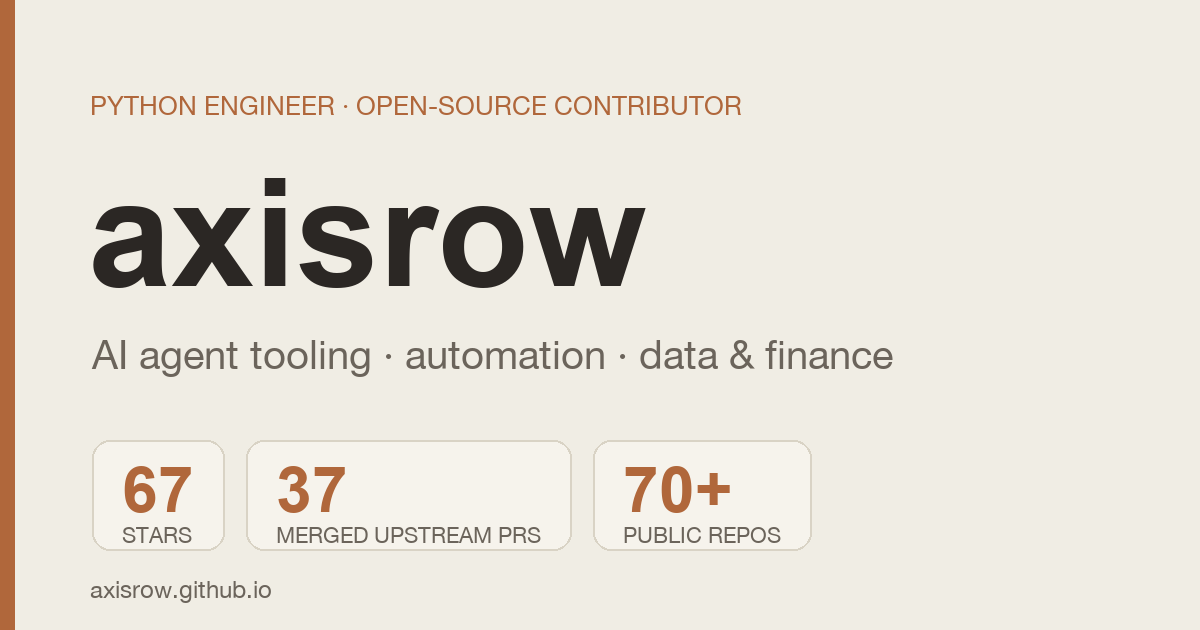
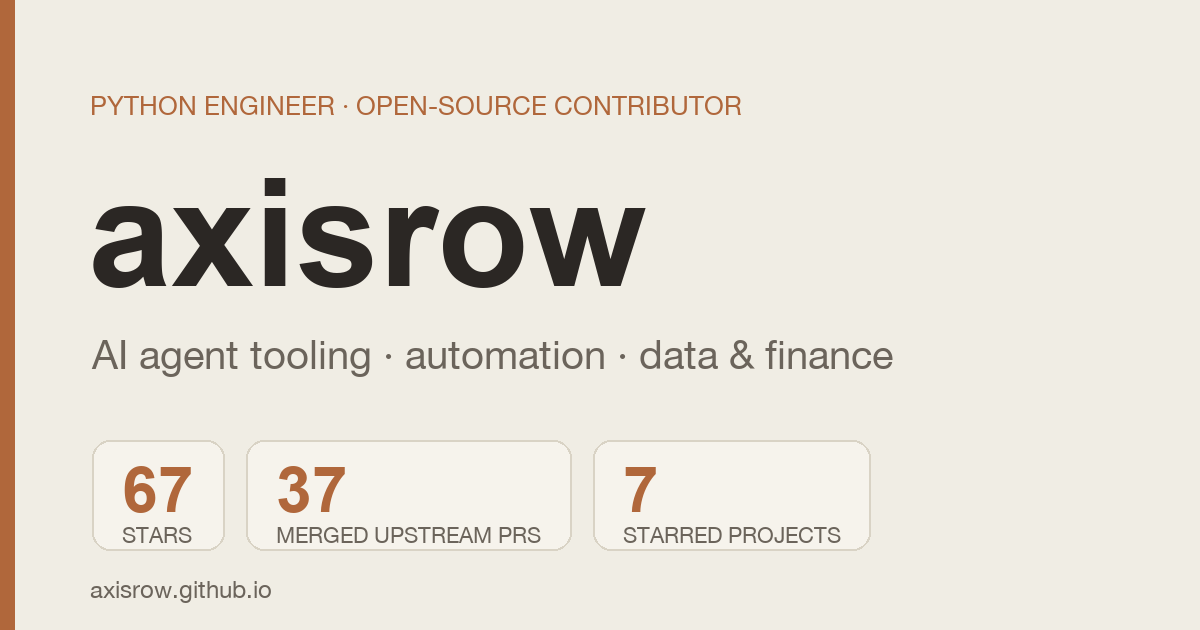
Show only 7 starred original projects; replace 70+ repos counter
- Projects section: 7 own repos with stars>1 (drop zero-star + forks)
- Hero counter: '70+ public repos' -> '7 starred projects'
- Update Experience bullet + OG description/image accordingly

Changed region(s): [[0.5242, 0.7238, 0.7092, 0.8746], [0.6783, 0.6937, 0.7092, 0.7238]]

diff --git a/index.html b/index.html
@@ -9,7 +9,7 @@
 
   <!-- Open Graph / social preview -->
   <meta property="og:title" content="axisrow — Python engineer" />
-  <meta property="og:description" content="AI agent tooling, automation, data/finance systems. 37 merged upstream PRs · 67 stars · 70+ public repos." />
+  <meta property="og:description" content="AI agent tooling, automation, data/finance systems. 37 merged upstream PRs · 67 stars · 7 starred projects." />
   <meta property="og:url" content="https://axisrow.github.io/" />
   <meta property="og:type" content="website" />
   <meta property="og:image" content="https://axisrow.github.io/og.png" />
@@ -66,7 +66,7 @@
         <div class="stat-sep" aria-hidden="true"></div>
         <div class="stat"><span class="stat-num" data-target="37">0</span><span class="stat-label">Merged upstream PRs</span></div>
         <div class="stat-sep" aria-hidden="true"></div>
-        <div class="stat"><span class="stat-num" data-target="70" data-suffix="+">0</span><span class="stat-label">Public repos</span></div>
+        <div class="stat"><span class="stat-num" data-target="7">0</span><span class="stat-label">Starred projects</span></div>
       </div>
       <div class="scroll-hint">scroll ↓</div>
     </section>
@@ -118,7 +118,7 @@
             <p class="timeline-org">Telegram automation · AI agent tooling · data &amp; finance</p>
             <ul class="timeline-bullets">
               <li>Author of <a href="https://github.com/axisrow/tg_content_factory" target="_blank" rel="noopener">tg_content_factory</a> (31★) and the <a href="https://github.com/axisrow/yandex-direct-mcp-plugin" target="_blank" rel="noopener">Yandex.Direct MCP plugin</a> (6★).</li>
-              <li>70+ public repositories across agent tooling, bots, and ML utilities.</li>
+              <li>Author of 7 starred open-source projects across agent tooling, bots, and ML.</li>
               <li>67 stars earned across open-source work.</li>
             </ul>
           </div>
@@ -172,13 +172,26 @@
     <section id="projects" class="section">
       <p class="eyebrow">Selected Work</p>
       <h2 class="section-title">Projects</h2>
+      <p class="section-note">Original repositories with the most stars — see all at <a href="https://github.com/axisrow?tab=repositories" target="_blank" rel="noopener">github.com/axisrow</a>.</p>
 
-      <h3 class="group-title">AI / Agent Tooling</h3>
+      <h3 class="group-title">Telegram &amp; Yandex</h3>
       <div class="cards">
+        <a class="card reveal" href="https://github.com/axisrow/tg_content_factory" target="_blank" rel="noopener">
+          <div class="card-head"><span class="card-name">tg_content_factory</span><span class="card-star">★ 31</span></div>
+          <p class="card-desc">Content-factory pipeline for Telegram — flagship project.</p>
+        </a>
         <a class="card reveal" href="https://github.com/axisrow/yandex-direct-mcp-plugin" target="_blank" rel="noopener">
           <div class="card-head"><span class="card-name">yandex-direct-mcp-plugin</span><span class="card-star">★ 6</span></div>
           <p class="card-desc">Claude Code plugin for Yandex.Direct — MCP server + skills + OAuth.</p>
         </a>
+        <a class="card reveal" href="https://github.com/axisrow/direct-cli" target="_blank" rel="noopener">
+          <div class="card-head"><span class="card-name">direct-cli</span><span class="card-star">★ 4</span></div>
+          <p class="card-desc">CLI for Yandex.Direct.</p>
+        </a>
+      </div>
+
+      <h3 class="group-title">AI / Agent Tooling</h3>
+      <div class="cards">
         <a class="card reveal" href="https://github.com/axisrow/clihost" target="_blank" rel="noopener">
           <div class="card-head"><span class="card-name">clihost</span><span class="card-star">★ 5</span></div>
           <p class="card-desc">Self-hosting / proxy CLI, security-hardened.</p>
@@ -187,49 +200,17 @@
           <div class="card-head"><span class="card-name">claude-code-cycle-review-skill</span><span class="card-star">★ 5</span></div>
           <p class="card-desc">Automated PR review cycle for Claude Code.</p>
         </a>
-        <a class="card reveal" href="https://github.com/axisrow/gemini-webapi-mcp" target="_blank" rel="noopener">
-          <div class="card-head"><span class="card-name">gemini-webapi-mcp</span><span class="card-star">★ 2</span></div>
-          <p class="card-desc">MCP server for Gemini — image gen/edit/chat, no API keys.</p>
+        <a class="card reveal" href="https://github.com/axisrow/claude_code_gmail_plugin" target="_blank" rel="noopener">
+          <div class="card-head"><span class="card-name">claude_code_gmail_plugin</span><span class="card-star">★ 3</span></div>
+          <p class="card-desc">Gmail plugin for Claude Code.</p>
         </a>
       </div>
 
-      <h3 class="group-title">Telegram Bots &amp; Systems</h3>
-      <div class="cards">
-        <a class="card reveal" href="https://github.com/axisrow/tg_content_factory" target="_blank" rel="noopener">
-          <div class="card-head"><span class="card-name">tg_content_factory</span><span class="card-star">★ 31</span></div>
-          <p class="card-desc">Content-factory pipeline for Telegram — flagship project.</p>
-        </a>
-        <a class="card reveal" href="https://github.com/axisrow/tg_messenger" target="_blank" rel="noopener">
-          <div class="card-head"><span class="card-name">tg_messenger</span></div>
-          <p class="card-desc">UI-agnostic core with CLI / TUI / Web front-ends.</p>
-        </a>
-        <a class="card reveal" href="https://github.com/axisrow/deepresearch_bot" target="_blank" rel="noopener">
-          <div class="card-head"><span class="card-name">deepresearch_bot</span></div>
-          <p class="card-desc">Deep-research bot (aiogram3 + LangChain).</p>
-        </a>
-      </div>
-
-      <h3 class="group-title">Data / Finance / ML</h3>
+      <h3 class="group-title">Data / ML</h3>
       <div class="cards">
         <a class="card reveal" href="https://github.com/axisrow/llm_benchmark" target="_blank" rel="noopener">
           <div class="card-head"><span class="card-name">llm_benchmark</span><span class="card-star">★ 3</span></div>
           <p class="card-desc">LLM benchmark harness.</p>
-        </a>
-        <a class="card reveal" href="https://github.com/axisrow/stocks_momento_bot" target="_blank" rel="noopener">
-          <div class="card-head"><span class="card-name">stocks_momento_bot</span></div>
-          <p class="card-desc">Trading bot with financial-data integrity invariants.</p>
-        </a>
-      </div>
-
-      <h3 class="group-title">Yandex Ecosystem</h3>
-      <div class="cards">
-        <a class="card reveal" href="https://github.com/axisrow/direct-cli" target="_blank" rel="noopener">
-          <div class="card-head"><span class="card-name">direct-cli</span><span class="card-star">★ 4</span></div>
-          <p class="card-desc">CLI for Yandex.Direct.</p>
-        </a>
-        <a class="card reveal" href="https://github.com/axisrow/yandex-audience-cli" target="_blank" rel="noopener">
-          <div class="card-head"><span class="card-name">yandex-audience-cli</span><span class="card-star">★ 1</span></div>
-          <p class="card-desc">Yandex Audience API wrapper (28 endpoints).</p>
         </a>
       </div>
     </section>